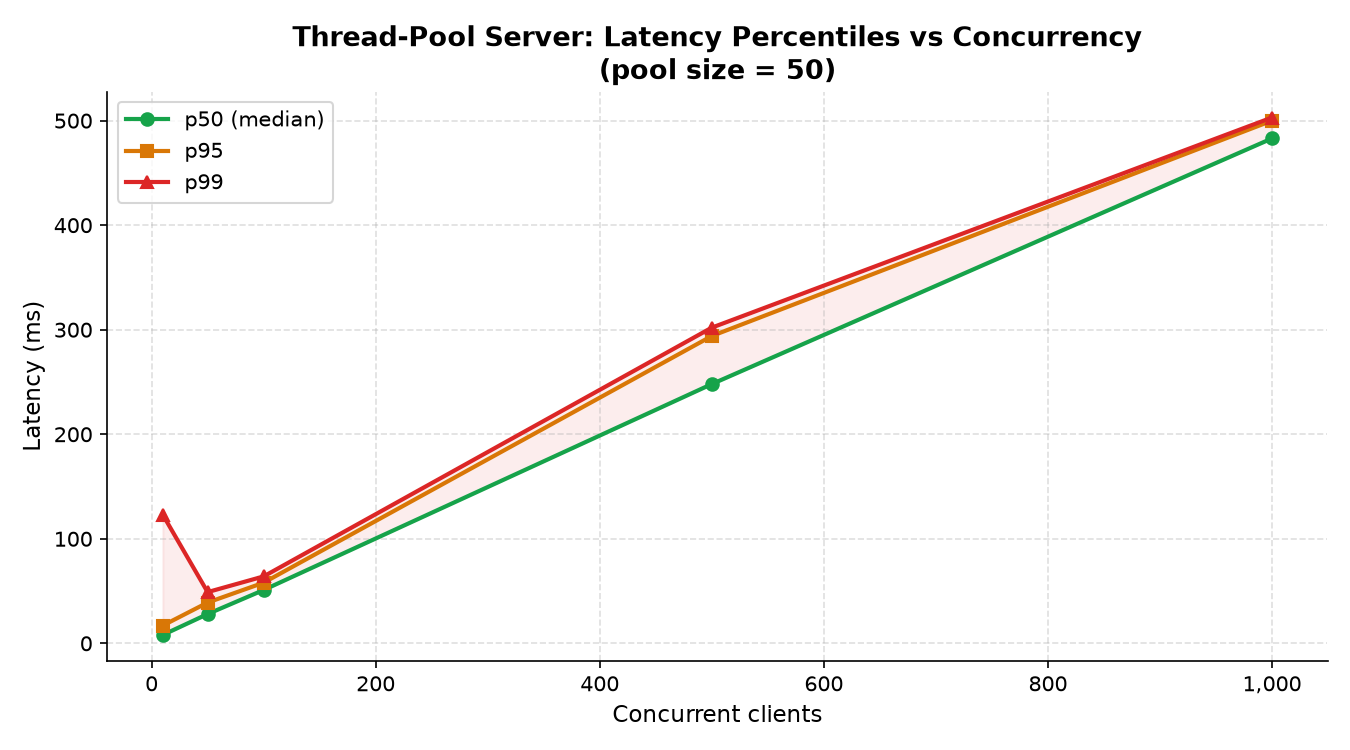
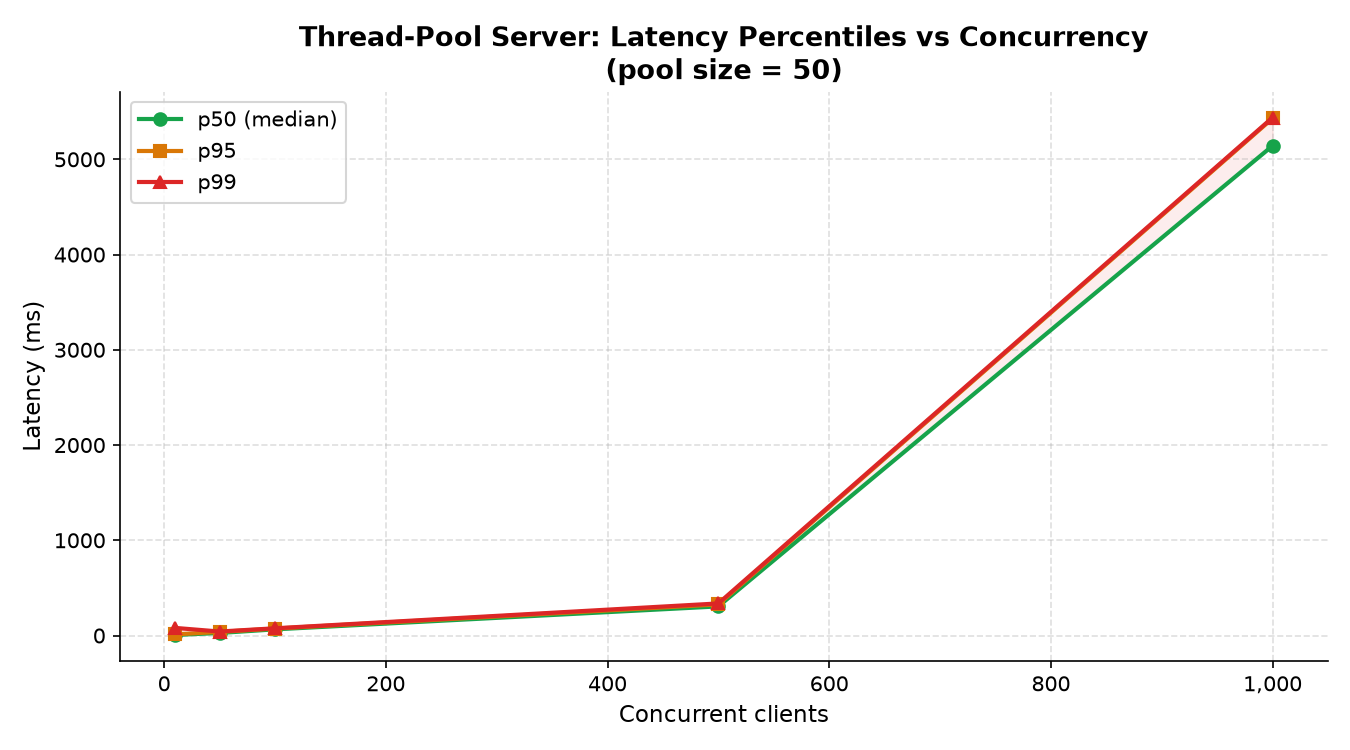
Update ThreadPoolServer, regenerated plots and rerun sweep CSV

diff --git a/src/server/ThreadPoolServer.java b/src/server/ThreadPoolServer.java
@@ -89,7 +89,7 @@ Thread.currentThread().interrupt();
             System.err.println("Pool size must be a positive integer ");
             System.exit(1);
         }
-        ThreadPoolServer server = new ThreadPoolServer(port, poolSize, new StaticFileHandler("test-site")); 
+        ThreadPoolServer server = new ThreadPoolServer(port, poolSize, new RequestDispatcher(new StaticFileHandler("test-site")));
         Runtime.getRuntime().addShutdownHook(new Thread(()->{
             System.out.println("\n[ThreadPoolServer] shutdown signal received, stopping gracefully.");
             try{
